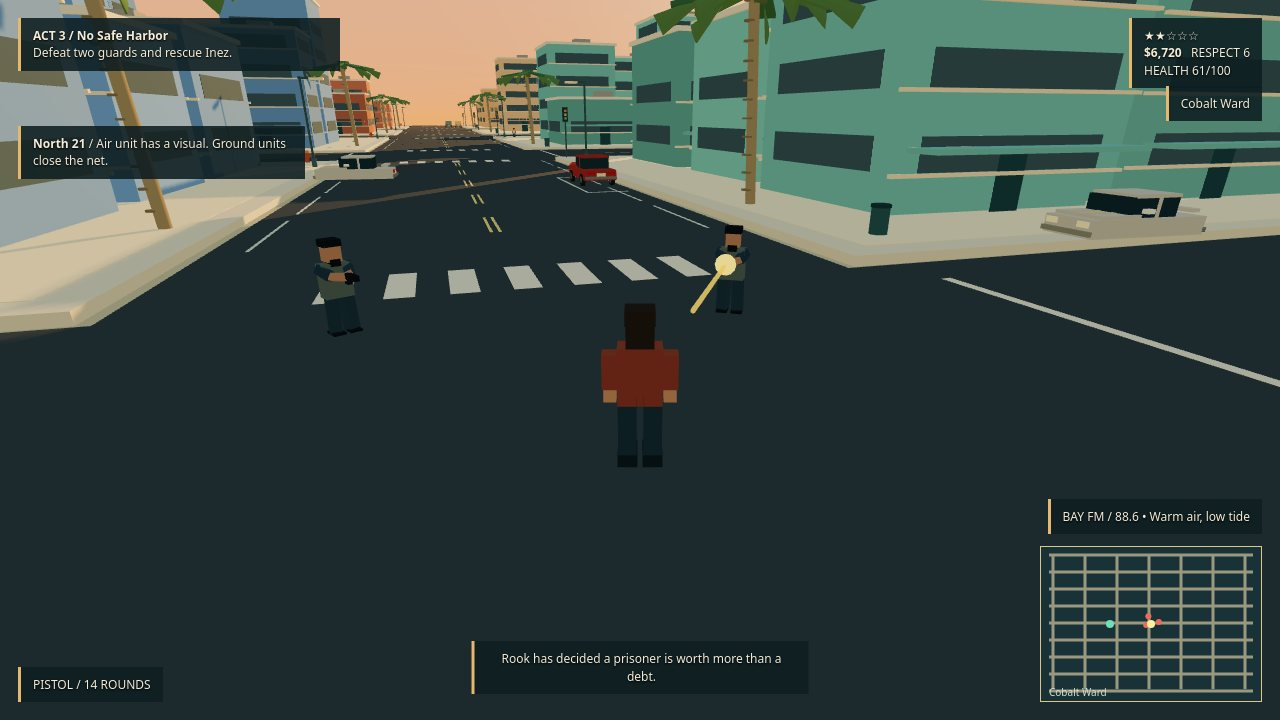
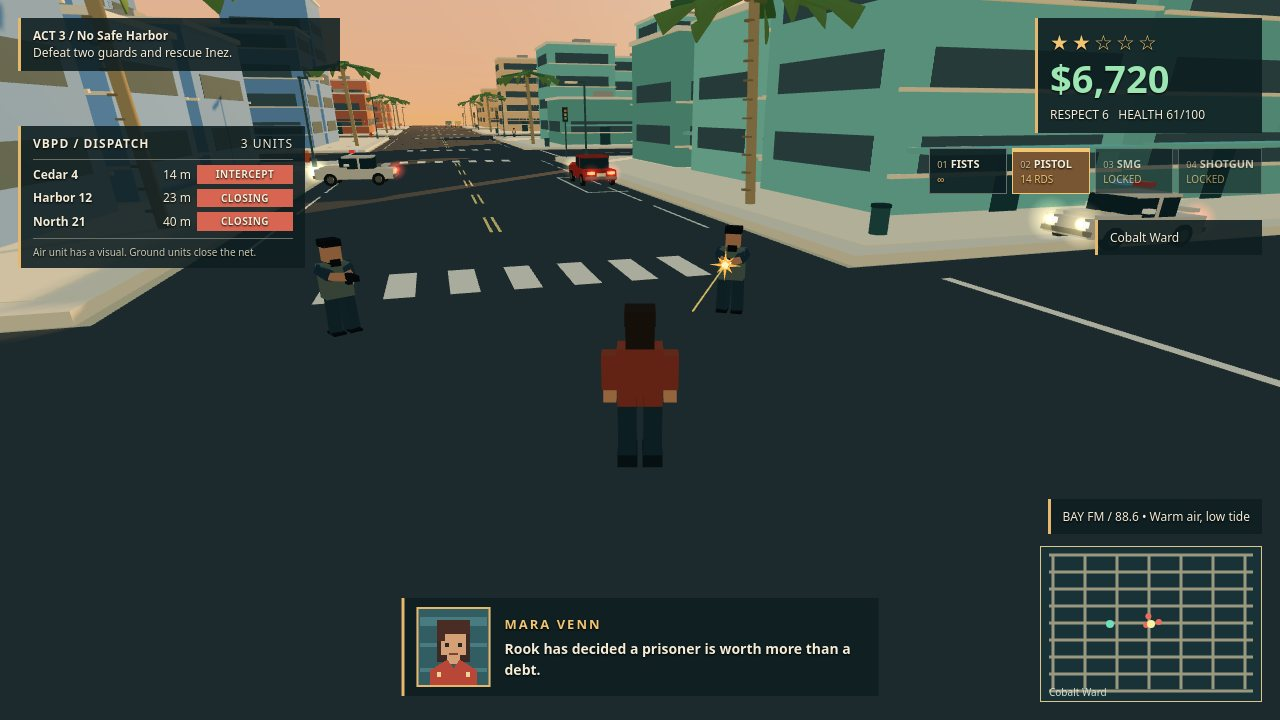
v2 phase 5: polish pass 1 (portraits, weapon bar, lights, HUD density)

diff --git a/game/src/ui/Hud.js b/game/src/ui/Hud.js
@@ -1,18 +1,31 @@
 const style = `position:fixed;color:#f4ecd7;background:rgba(14,30,34,.88);border-left:3px solid #e6b86e;padding:9px 12px;font:12px/1.45 system-ui,sans-serif;letter-spacing:0;max-width:310px;text-shadow:0 1px 2px #000`;
 
+// Original pixel busts stay sharp at contact-sheet scale without image requests.
+function portrait(speaker) {
+  const inez = speaker === 'INEZ';
+  return `<svg width="70" height="76" viewBox="0 0 32 36" role="img" aria-label="${speaker} portrait" shape-rendering="crispEdges" style="flex:none;border:2px solid #e6b86e;background:#315d63">
+    <path fill="#487c80" d="M0 4h32v4H0zm0 12h32v2H0zm0 12h32v2H0z"/>
+    <path fill="${inez ? '#252c30' : '#3b2926'}" d="M8 5h16v20H8z"/>
+    <path fill="${inez ? '#b97e55' : '#d6a077'}" d="M10 10h12v12h-3v4h-6v-4h-3z"/>
+    <path fill="${inez ? '#20282b' : '#492c24'}" d="M8 5h16v7H12v3H8z"/>
+    <path fill="#20282b" d="M12 16h2v2h-2zm6 0h2v2h-2z"/><path fill="#7c4339" d="M14 21h4v1h-4z"/>
+    <path fill="${inez ? '#e7bc68' : '#b94737'}" d="M5 29l8-5 3 4 3-4 8 5v7H5z"/>
+    <path fill="#f3d29a" d="M8 30h2v2H8zm14 0h2v2h-2z"/></svg>`;
+}
+
 export class Hud {
   constructor() {
     this.nodes = Object.fromEntries(['mission','status','dispatch','garage','minimap','vehicle','dialogue','radio','weapons'].map(id => [id, document.getElementById(id)]));
     for (const node of Object.values(this.nodes)) { node.style.cssText = style; }
     Object.assign(this.nodes.mission.style, { left: '18px', top: '18px', width: '295px' });
-    Object.assign(this.nodes.status.style, { right: '18px', top: '18px' });
+    Object.assign(this.nodes.status.style, { right: '18px', top: '18px', minWidth: '200px' });
     Object.assign(this.nodes.dispatch.style, { left: '18px', top: '126px', width: '260px' });
     Object.assign(this.nodes.garage.style, { left: '18px', top: '126px', width: '280px' });
     Object.assign(this.nodes.minimap.style, { right: '18px', bottom: '18px', width: '220px', height: '154px', padding: '0', border: '1px solid #dbc68e' });
-    Object.assign(this.nodes.vehicle.style, { right: '18px', top: '86px' });
-    Object.assign(this.nodes.dialogue.style, { left: '50%', bottom: '26px', transform: 'translateX(-50%)', width: 'min(540px, 72vw)', textAlign: 'center' });
+    Object.assign(this.nodes.vehicle.style, { right: '18px', top: '220px', minWidth: '140px' });
+    Object.assign(this.nodes.dialogue.style, { left: '50%', bottom: '24px', transform: 'translateX(-50%)', width: 'min(450px, 64vw)', maxWidth: '450px', display: 'flex', alignItems: 'center', gap: '14px', fontSize: '14px' });
     Object.assign(this.nodes.radio.style, { right: '18px', bottom: '186px' });
-    Object.assign(this.nodes.weapons.style, { left: '18px', bottom: '18px' });
+    Object.assign(this.nodes.weapons.style, { right: '18px', top: '148px', maxWidth: 'none', display: 'flex', gap: '5px', padding: '0', border: 'none', background: 'none' });
     this.nodes.minimap.innerHTML = '<canvas width="220" height="154" aria-label="District minimap"></canvas>';
     this.map = this.nodes.minimap.querySelector('canvas').getContext('2d');
   }
@@ -30,14 +43,23 @@ export class Hud {
   update(snapshot, city, dispatch, police) {
     const mission=snapshot.mission; this.nodes.mission.innerHTML=mission.active?`<b>ACT ${mission.active.act} / ${mission.active.name}</b><br>${mission.active.objective}`:'<b>STORY / Select a job</b>';
     const stars='★'.repeat(snapshot.wanted.level)+'☆'.repeat(5-snapshot.wanted.level);
-    this.nodes.status.innerHTML=`${stars}<br><b>$${snapshot.progress.money.toLocaleString()}</b> &nbsp; RESPECT ${snapshot.progress.respect}<br>HEALTH ${snapshot.combat.health}/100`;
-    this.nodes.dispatch.innerHTML=dispatch.snapshot().map(line=>`<b>${line.callsign}</b> / ${line.text}`).join('<br>');
+    this.nodes.status.innerHTML=`<div style="color:#f1c573;font-size:21px;letter-spacing:3px">${stars}</div><b style="display:block;font-size:38px;line-height:1.15;color:#9ce6b4;font-variant-numeric:tabular-nums">$${snapshot.progress.money.toLocaleString()}</b><div style="margin-top:5px">RESPECT ${snapshot.progress.respect} &nbsp; HEALTH ${snapshot.combat.health}/100</div>`;
+    const distance = position => Math.round(Math.hypot(position.x-snapshot.player.x, position.z-snapshot.player.z));
+    const names = ['Harbor 12','Cedar 4','North 21','Bay 6','Quay 9'];
+    const rows = police.units.map((car,index) => ({ name:names[index], distance:distance(car.position), status:distance(car.position)<16?'INTERCEPT':'CLOSING', color:'#d76551' }));
+    if (police.heli) rows.push({ name:'Air 1', distance:distance(police.heli.root.position), status:'SEARCHLIGHT', color:'#438cb0' });
+    rows.sort((a,b)=>a.distance-b.distance);
+    const message = dispatch.snapshot()[0];
+    this.nodes.dispatch.innerHTML=rows.length?`<div style="display:flex;justify-content:space-between;border-bottom:1px solid #69706a;padding-bottom:7px;margin-bottom:5px;letter-spacing:1px"><b>VBPD / DISPATCH</b><span>${rows.length} UNITS</span></div>${rows.map(row=>`<div style="display:grid;grid-template-columns:1fr 44px 96px;gap:6px;align-items:center;margin:5px 0"><b>${row.name}</b><span style="text-align:right">${row.distance} m</span><b style="background:${row.color};padding:2px 4px;text-align:center;font-size:10px;letter-spacing:.5px">${row.status}</b></div>`).join('')}${message?`<div style="font-size:10px;color:#c9c9b6;border-top:1px solid #69706a;padding-top:6px;margin-top:7px">${message.text}</div>`:''}`:'';
     const owned=snapshot.shop.catalog.filter(item=>item.owned);
     this.nodes.garage.innerHTML=owned.length?`<b>KITE &amp; KEY / MOTOR WORKS</b><br>${owned.map(item=>`✓ ${item.name} / ${item.effect}`).join('<br>')}<br>UPGRADES ${owned.length}/${snapshot.shop.catalog.length}`:'';
-    this.nodes.vehicle.textContent=snapshot.player.mode==='driving'?`${snapshot.vehicleName} / ${Math.round(Math.abs(snapshot.player.speed)*3.6)} km/h`:snapshot.district.name;
-    this.nodes.dialogue.textContent=mission.dialogue || 'MARA VENN / VERMILION BAY';
+    this.nodes.vehicle.innerHTML=snapshot.player.mode==='driving'?`<b style="color:#f1c573;letter-spacing:1px">${snapshot.vehicleName.toUpperCase()}</b><div><b style="font-size:60px;line-height:1.05;font-variant-numeric:tabular-nums">${Math.round(Math.abs(snapshot.player.speed)*3.6)}</b> <b>km/h</b></div>`:snapshot.district.name;
+    const dialogue = mission.dialogue || 'MARA VENN / VERMILION BAY';
+    const speaker = dialogue.startsWith('INEZ /') ? 'INEZ' : 'MARA VENN';
+    const line = dialogue.includes(' / ') ? dialogue.split(' / ').slice(1).join(' / ') : dialogue;
+    this.nodes.dialogue.innerHTML=`${portrait(speaker)}<div><b style="color:#f1c573;letter-spacing:2px;font-size:13px">${speaker}</b><div style="font-weight:650;margin-top:5px">${line}</div></div>`;
     this.nodes.radio.textContent='BAY FM / 88.6  •  Warm air, low tide';
-    this.nodes.weapons.textContent=`${snapshot.combat.weapon.toUpperCase()}  /  ${snapshot.combat.ammo} ROUNDS`;
+    this.nodes.weapons.innerHTML=[['FISTS','∞','punch'],['PISTOL',`${snapshot.combat.ammo} RDS`,'pistol'],['SMG','LOCKED','locked'],['SHOTGUN','LOCKED','locked']].map(([name,ammo,key],index)=>`<div style="min-width:62px;padding:6px 7px;border:1px solid ${snapshot.combat.weapon===key?'#f1c573':'#65716a'};background:${snapshot.combat.weapon===key?'#795633':'rgba(14,30,34,.9)'};box-shadow:${snapshot.combat.weapon===key?'inset 0 3px #f1c573':'none'};opacity:${key==='locked'?.65:1}"><span style="font-size:9px;color:#cfbd95">0${index+1}</span> <b style="font-size:11px">${name}</b><div style="font-size:10px;color:#f1c573">${ammo}</div></div>`).join('');
     this.drawMap(snapshot,city,police);
   }
 }

diff --git a/game/src/vehicles/Carjacking.js b/game/src/vehicles/Carjacking.js
@@ -20,6 +20,15 @@ export class Carjacking {
     this.bodyGeometry = new THREE.BoxGeometry(1, 1, 1);
     this.wheelGeometry = new THREE.CylinderGeometry(0.39, 0.39, 0.22, 12);
     this.lastInteraction = null;
+    const canvas = document.createElement('canvas'); canvas.width = canvas.height = 64;
+    const context = canvas.getContext('2d');
+    const halo = context.createRadialGradient(32,32,0,32,32,32);
+    halo.addColorStop(0,'rgba(255,255,255,1)'); halo.addColorStop(0.12,'rgba(255,255,255,.95)');
+    halo.addColorStop(0.3,'rgba(255,255,255,.35)'); halo.addColorStop(1,'rgba(255,255,255,0)');
+    context.fillStyle=halo; context.fillRect(0,0,64,64);
+    this.lightTexture = new THREE.CanvasTexture(canvas);
+    this.lampMaterials = [new THREE.MeshStandardMaterial({color:'#fff4c1',emissive:'#ffe8a0',emissiveIntensity:5}),new THREE.MeshStandardMaterial({color:'#ff503b',emissive:'#ff2110',emissiveIntensity:4})];
+    this.haloMaterials = ['#ffe4a0','#ff3220'].map(color=>new THREE.SpriteMaterial({map:this.lightTexture,color,transparent:true,opacity:.85,blending:THREE.AdditiveBlending,depthWrite:false,toneMapped:false}));
   }
 
   material(color, metalness = 0) {
@@ -56,8 +65,12 @@ export class Carjacking {
     this.piece(group, '#b4b8ad', 0, 0.57, l / 2 + 0.05, w, 0.16, 0.15, 0.55);
     this.piece(group, '#e5dcae', 0, 0.76, l / 2 + 0.09, 0.58, 0.2, 0.02);
     for (const side of [-1, 1]) {
-      this.piece(group, '#fff1bd', side * w * 0.32, 0.86, -l / 2 - 0.07, 0.44, 0.2, 0.05);
-      this.piece(group, '#b43831', side * w * 0.32, 0.86, l / 2 + 0.07, 0.48, 0.18, 0.05);
+      this.piece(group, '#fff1bd', side * w * 0.32, 0.86, -l / 2 - 0.07, 0.44, 0.2, 0.05).material=this.lampMaterials[0];
+      this.piece(group, '#b43831', side * w * 0.32, 0.86, l / 2 + 0.07, 0.48, 0.18, 0.05).material=this.lampMaterials[1];
+      for (const [index,end] of [[0,-1],[1,1]]) {
+        const glow = new THREE.Sprite(this.haloMaterials[index]);
+        glow.position.set(side*w*.32,.86,end*(l/2+.13)); glow.scale.setScalar(index===0?1.65:1.35); group.add(glow);
+      }
       this.piece(group, color, side * (w / 2 + 0.1), 1.28, -0.35, 0.22, 0.15, 0.3);
     }
     if (modelIndex === 0) {

diff --git a/game/src/combat/Weapons.js b/game/src/combat/Weapons.js
@@ -42,10 +42,19 @@ export class Weapons {
       makeBox(group, dark, [0.13, 0.11, 0.42], [0, 1.39, -0.84]);
       makeBox(group, dark, [0.09, 0.13, 0.15], [0, 1.29, -0.66]);
       if (muzzleFlash) {
-        const flash = new THREE.Mesh(new THREE.SphereGeometry(0.23, 8, 6), new THREE.MeshBasicMaterial({ color: '#ffd86c' }));
-        flash.position.set(0, 1.4, -1.08); group.add(flash);
+        const burst = new THREE.Shape();
+        for (let index=0; index<16; index++) {
+          const angle=index*Math.PI/8; const radius=index%2 ? .09 : (index%4===0?.34:.24);
+          const x=Math.cos(angle)*radius; const y=Math.sin(angle)*radius;
+          if(index===0)burst.moveTo(x,y);else burst.lineTo(x,y);
+        }
+        burst.closePath();
+        const flash = new THREE.Mesh(new THREE.ShapeGeometry(burst), new THREE.MeshBasicMaterial({ color: '#ffbd47', side:THREE.DoubleSide, toneMapped:false }));
+        flash.position.set(0, 1.4, -1.13); group.add(flash);
+        const core = new THREE.Mesh(new THREE.ConeGeometry(.12,.48,5),new THREE.MeshBasicMaterial({color:'#fff4c1',toneMapped:false}));
+        core.rotation.x=-Math.PI/2; core.position.set(0,1.4,-1.23);group.add(core);
         const glow = new THREE.MeshBasicMaterial({ color: '#ffbd47', transparent: true, opacity: 0.88 });
-        const tracer = new THREE.Mesh(new THREE.CylinderGeometry(0.045, 0.045, 3.5, 6), glow);
+        const tracer = new THREE.Mesh(new THREE.CylinderGeometry(0.016, 0.016, 3.5, 6), glow);
         tracer.rotation.x = -Math.PI / 2; tracer.position.set(0, 1.4, -2.85); group.add(tracer);
       }
     }

diff --git a/game/src/shots/ShotScenes.js b/game/src/shots/ShotScenes.js
@@ -2,7 +2,7 @@ const STAGES = {
   coverHeliChase: { x: 72, z: -72, hour: 17.2, money: 4280, respect: 2, wanted: 3, mission: 2, driving: true, health: 79, ammo: 19, heli: true },
   driveCarjacking: { x: -72, z: 72, hour: 16.4, money: 5350, respect: 4, wanted: 1, mission: 5, driving: true, health: 92, ammo: 22 },
   onFootCombat: { x: 0, z: 0, hour: 17.1, money: 6720, respect: 6, wanted: 2, mission: 11, driving: false, health: 61, ammo: 14, enemies: true, camera: { heading: -0.3, pitch: 0.18, distance: 0.8 } },
-  garageEconomy: { x: -72, z: 216, hour: 16.8, money: 12850, respect: 10, wanted: 0, mission: 14, driving: false, health: 100, ammo: 24, garage: true, heading: -Math.PI / 2, camera: { heading: -Math.PI / 2, pitch: 0.14, distance: 1.3 } },
+  garageEconomy: { x: -72, z: 216, hour: 16.8, money: 12850, respect: 10, wanted: 0, mission: 14, driving: false, health: 100, ammo: 24, garage: true, heading: -Math.PI / 2, camera: { heading: -Math.PI / 2, pitch: 0.14, distance: 0.8 } },
 };
 
 export function createShotScenes(app) {
@@ -49,7 +49,7 @@ export function createShotScenes(app) {
     }
     if (name === 'garageEconomy') {
       systems.shops.owned = new Set(['engine','armor','pistol']);
-      vehicles.spawn(config.x + 17, config.z, -Math.PI / 2, { model: 0, color: '#d1a44c' });
+      vehicles.spawn(config.x + 1, config.z - 2.8, -0.5, { model: 0, color: '#d1a44c' });
     }
     systems.missions.dialogue = name === 'coverHeliChase' ? 'INEZ / “The drive is in the trunk. Lose the air unit.”' : systems.missions.dialogue;
     app.chase.snap(player);

diff --git a/game/src/police/PoliceAI.js b/game/src/police/PoliceAI.js
@@ -47,6 +47,9 @@ export class PoliceAI {
 
   update(dt, level, player) {
     this.ensure(level, player);
+    const redPulse = Math.floor(performance.now() / 180) % 2 === 0;
+    this.red.emissiveIntensity = redPulse ? 3.5 : 0.8;
+    this.blue.emissiveIntensity = redPulse ? 0.8 : 3.5;
     for (const [index, car] of this.units.entries()) {
       const dx = player.target.x - car.position.x; const dz = player.target.z - car.position.z;
       const distance = Math.hypot(dx, dz); const desired = Math.atan2(-dx, -dz);
@@ -57,7 +60,6 @@ export class PoliceAI {
       const moveZ = -Math.cos(car.heading) * Math.min(distance, speed * dt);
       this.collision.move(car.position, moveX, moveZ, car.radius);
       car.speed = speed; this.vehicles.animate(car, dt);
-      for (const child of car.group.children) if (child.isGroup) child.visible = Math.floor(performance.now() / 180) % 2 === index % 2;
     }
     if (this.heli) {
       const root = this.heli.root;
